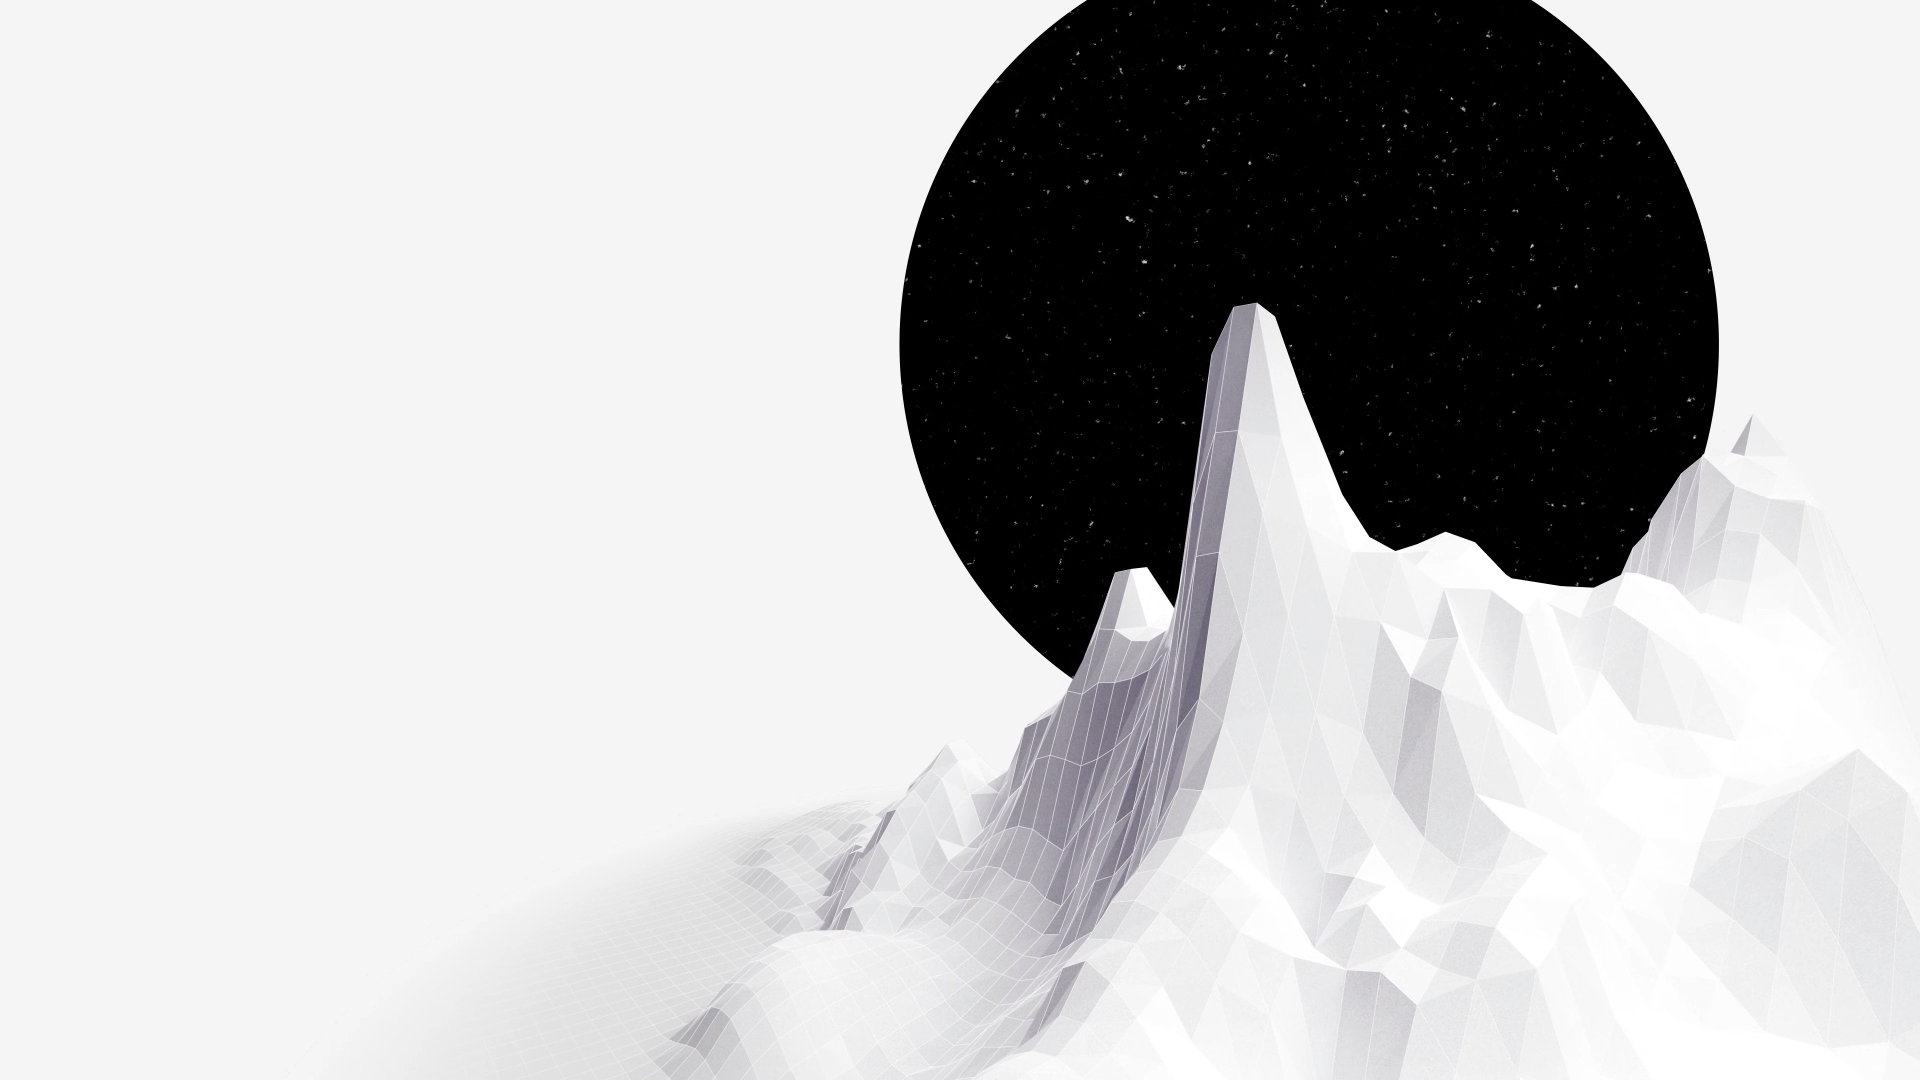
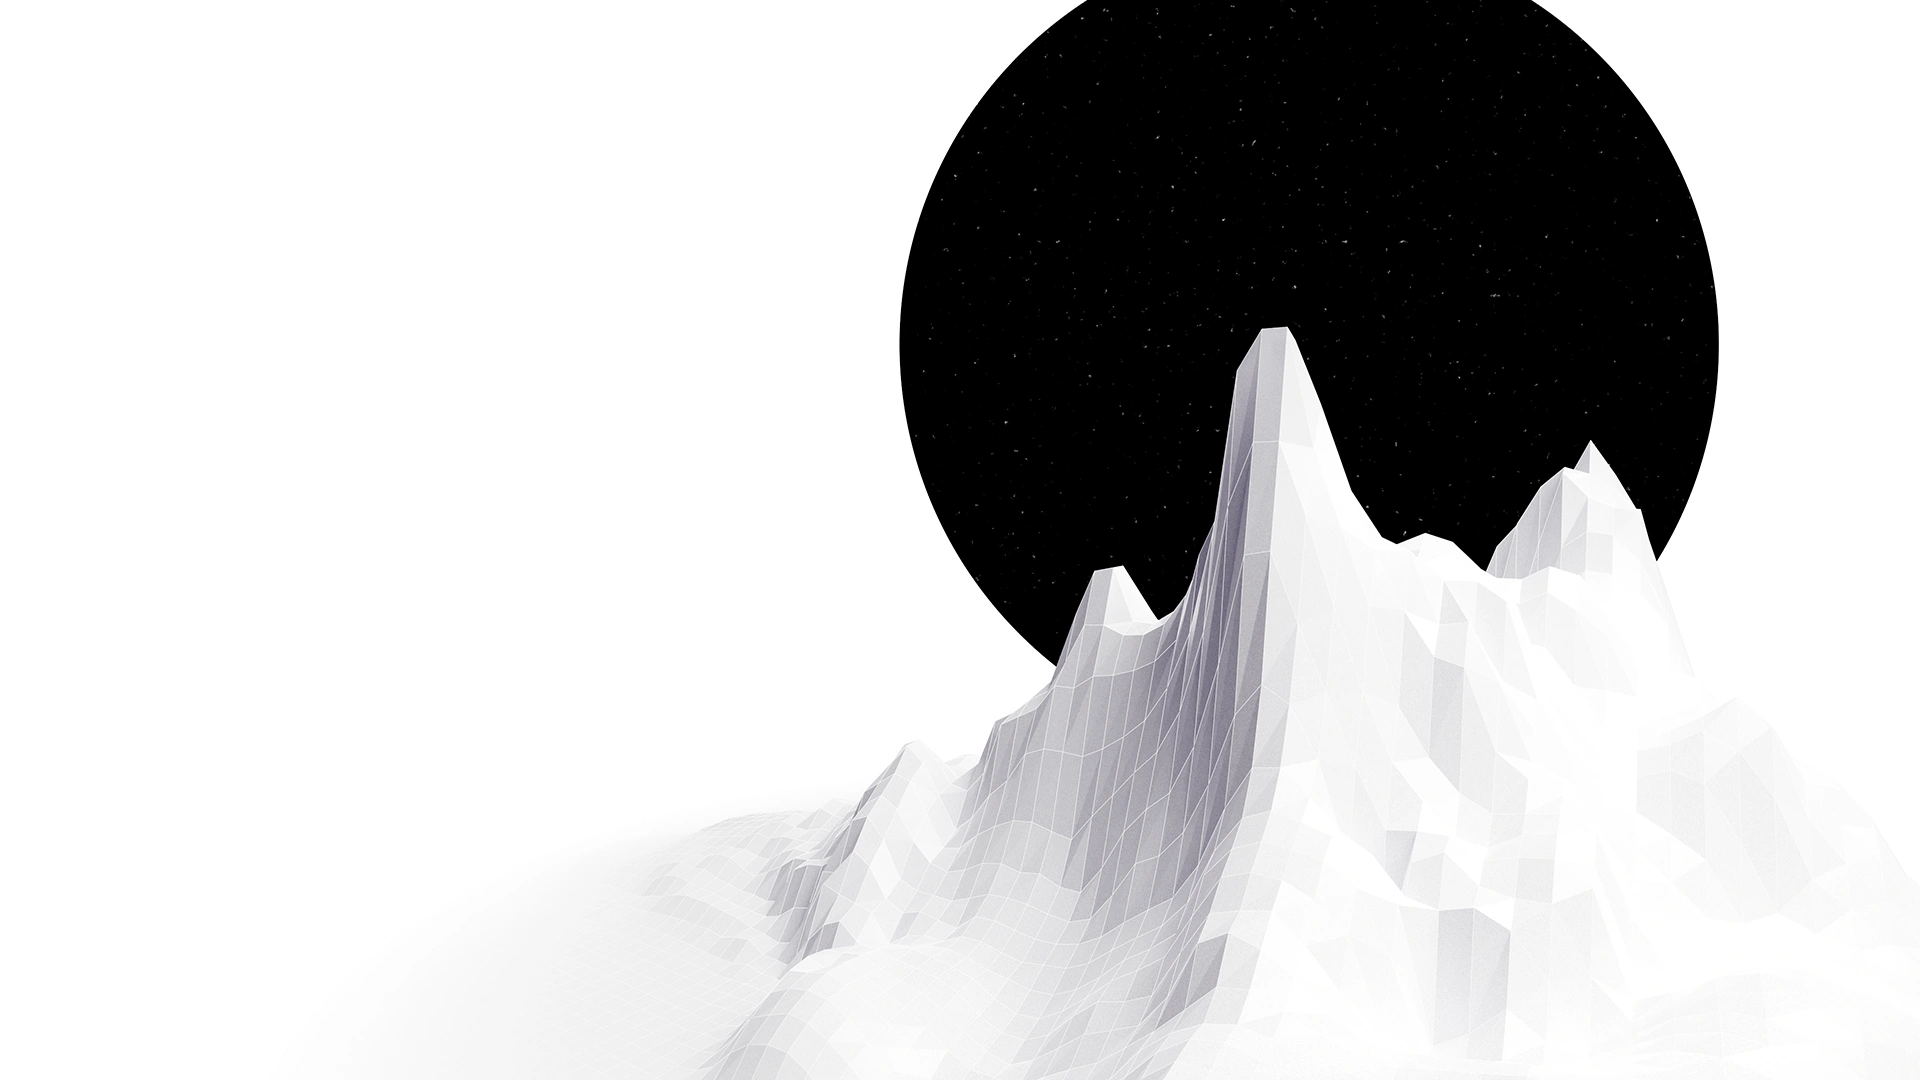
fix: background change

diff --git a/src/app/layout.tsx b/src/app/layout.tsx
@@ -11,7 +11,7 @@ export const metadata = {
 export default function RootLayout({ children }) {
   return (
     <html lang="en">
-      <body className="bg-gray-100 font-mono font-light text-gray-900 accent-blue-500 dark:bg-indigo-950 dark:text-white dark:accent-rose-500">
+      <body className="bg-white font-mono font-light text-gray-900 accent-blue-500 dark:bg-indigo-950 dark:text-white dark:accent-rose-500">
         <div className="flex min-h-screen flex-col">
           <Navigation />
           {children}
